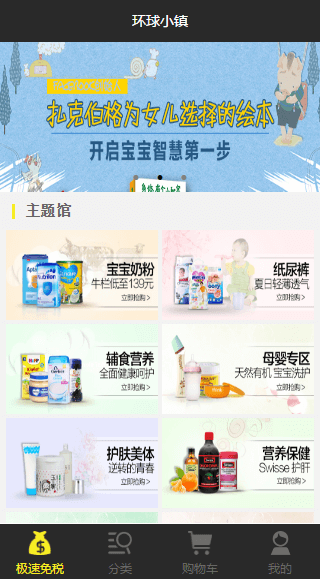
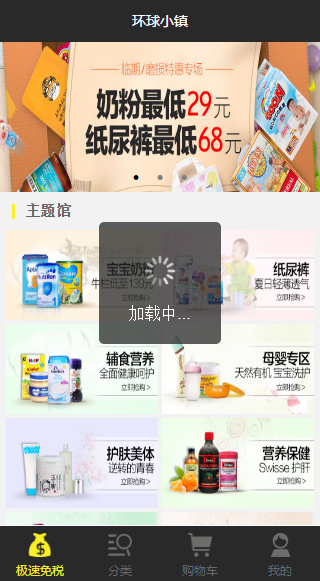
首页添加loading加载效果

diff --git a/pages/index/index.js b/pages/index/index.js
@@ -7,6 +7,7 @@ Page({
         autoplay: true,
         interval: 3000,
         duration: 1000,
+        loadingHidden: false  // loading
     },
 
     //事件处理函数
@@ -49,7 +50,12 @@ Page({
             },
             success: function(res) {
                 //console.log(res.data.data)
-                that.data.venuesItems = res.data.data
+                that.data.venuesItems = res.data.data;
+                setTimeout(function () {
+                    that.setData({
+                        loadingHidden: true
+                    })
+                }, 1500)
             }
         })
 
@@ -63,7 +69,12 @@ Page({
             },
             success: function(res) {
                 //console.log(res.data.data.dataList)
-                that.data.choiceItems = res.data.data.dataList
+                that.data.choiceItems = res.data.data.dataList;
+                setTimeout(function () {
+                    that.setData({
+                        loadingHidden: true
+                    })
+                }, 1500)
             }
         })
 
